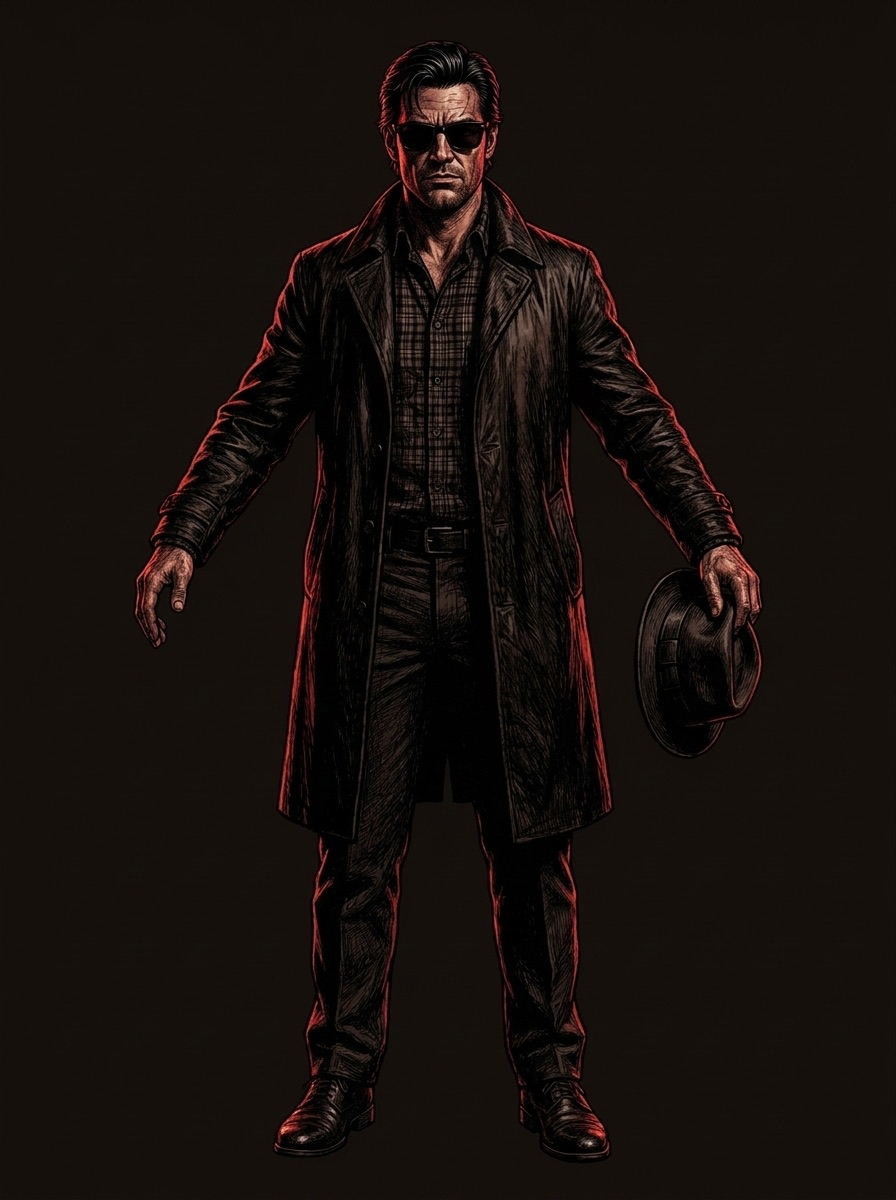
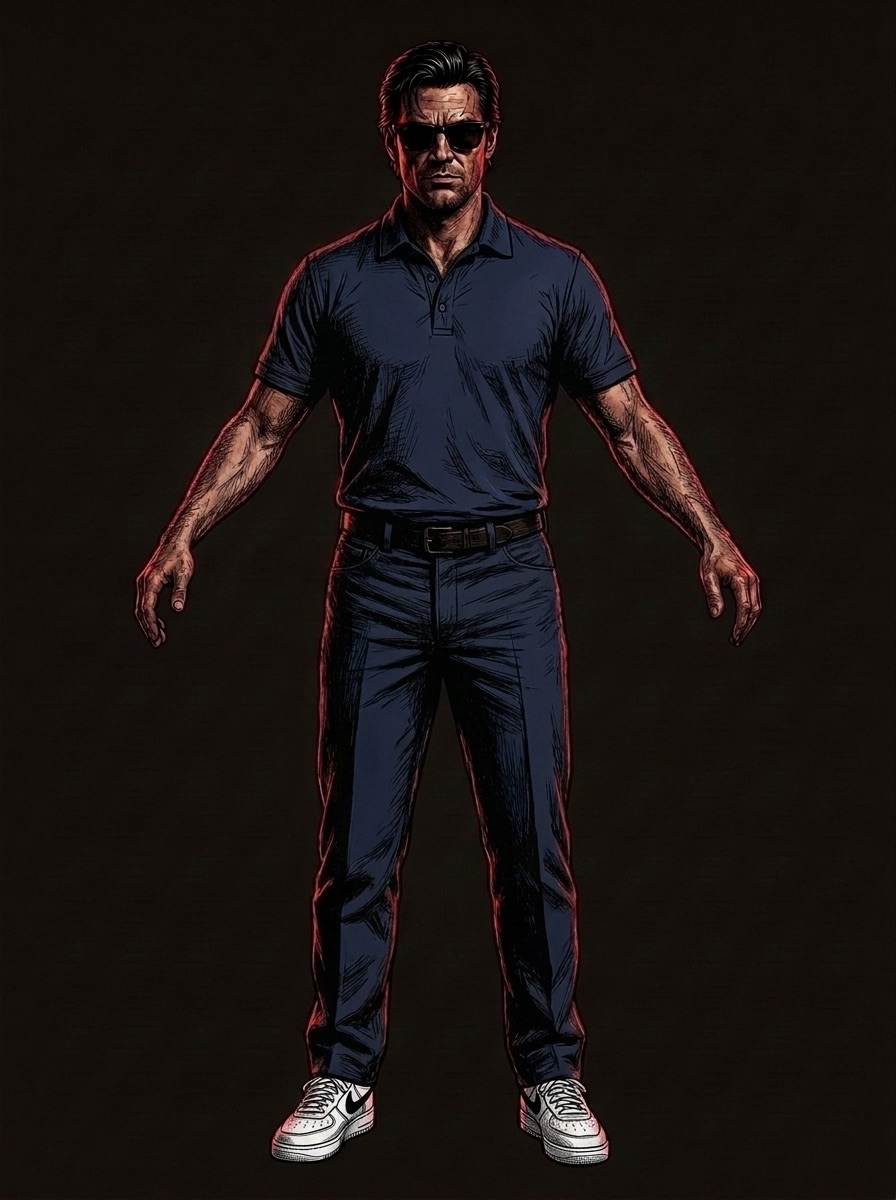
agents: Pflash frame — navy shirt and pants, Air Force 1s, no coat, no hat

Changed region(s): [[0.1562, 0.0617, 0.8438, 0.9867]]

diff --git a/assets/stage.js b/assets/stage.js
@@ -286,7 +286,7 @@
     pflash: ['000'],   /* Dan 10/16: no spinning; straight on. The other seven frames stay in assets/turn/pflash/ if ever wanted. */
     atlas: ['000']   /* one frame so far, so it stands still (and no 404s in the console); add '045' ... as the frames arrive in assets/turn/atlas/ */
   };
-  var FRAME_VER = '20261016-8';   /* bump whenever a frame image is replaced, so browsers refetch it */
+  var FRAME_VER = '20261016-9';   /* bump whenever a frame image is replaced, so browsers refetch it */
   function frameUrls(dir){ return TURN[dir].map(function(a){ return 'assets/turn/' + dir + '/' + a + '.jpg?v=' + FRAME_VER; }); }
   /* mount a turnaround in `fig` (needs a .pf-2d host and a .pf-disc inside it): o.dir, o.ready(handle), o.fail() */
   function mount2d(o){

diff --git a/agents.html b/agents.html
@@ -242,7 +242,7 @@
 </footer>
 
 <script src="assets/stage2d.js?v=1" defer></script>
-<script src="assets/stage.js?v=14" defer></script>
+<script src="assets/stage.js?v=15" defer></script>
 <script>
 /* Same submit behavior as index.html's #scanForm: validate lightly, then go to scan.html?addr=<value>. */
 document.getElementById('scanForm').addEventListener('submit', function(e){
